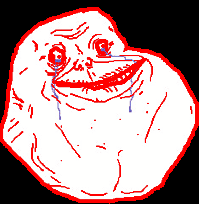
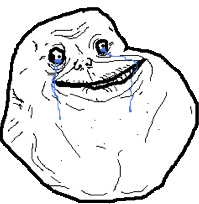
The face is resized on-the-fly

diff --git a/forever_alone.py b/forever_alone.py
@@ -41,12 +41,18 @@ class AR(object):
                                          self.haar_flags, self.min_size)
             if faces and len(faces) == 1:
                 (x, y, w, h), n = faces[0]
+                # 1.25 is a factor to do the overlay bigget than the face
+                width = int(w * self.image_scale * 1.33)
+                height = int(h * self.image_scale * 1.33)
                 cv.SetImageROI(image, (
                                        int(x * self.image_scale),
-                                       int(y * self.image_scale),
-                                       self.overlay_image.width,
-                                       self.overlay_image.height))
-                cv.Add(image, self.overlay_image, image)
+                                       # 0.70 to start the image above the head
+                                       int(y * self.image_scale * 0.70),
+                                       width, height))
+                resized = cv.CreateImage((width, height), cv.IPL_DEPTH_8U, 3)
+                cv.Convert(resized, resized)
+                cv.Resize(self.overlay_image, resized, 2) # CV_INTER_CUBIC
+                cv.Add(image, resized, image)
                 cv.ResetImageROI(image)
 
         cv.ShowImage(self.window_name, image)
@@ -71,8 +77,7 @@ class AR(object):
 
             self.detect_and_draw(frame_copy)
 
-            # The user press the scape key
-            if cv.WaitKey(10) == 27:
+            if cv.WaitKey(15) == 27:
                 break
 
         cv.DestroyWindow(self.window_name)
